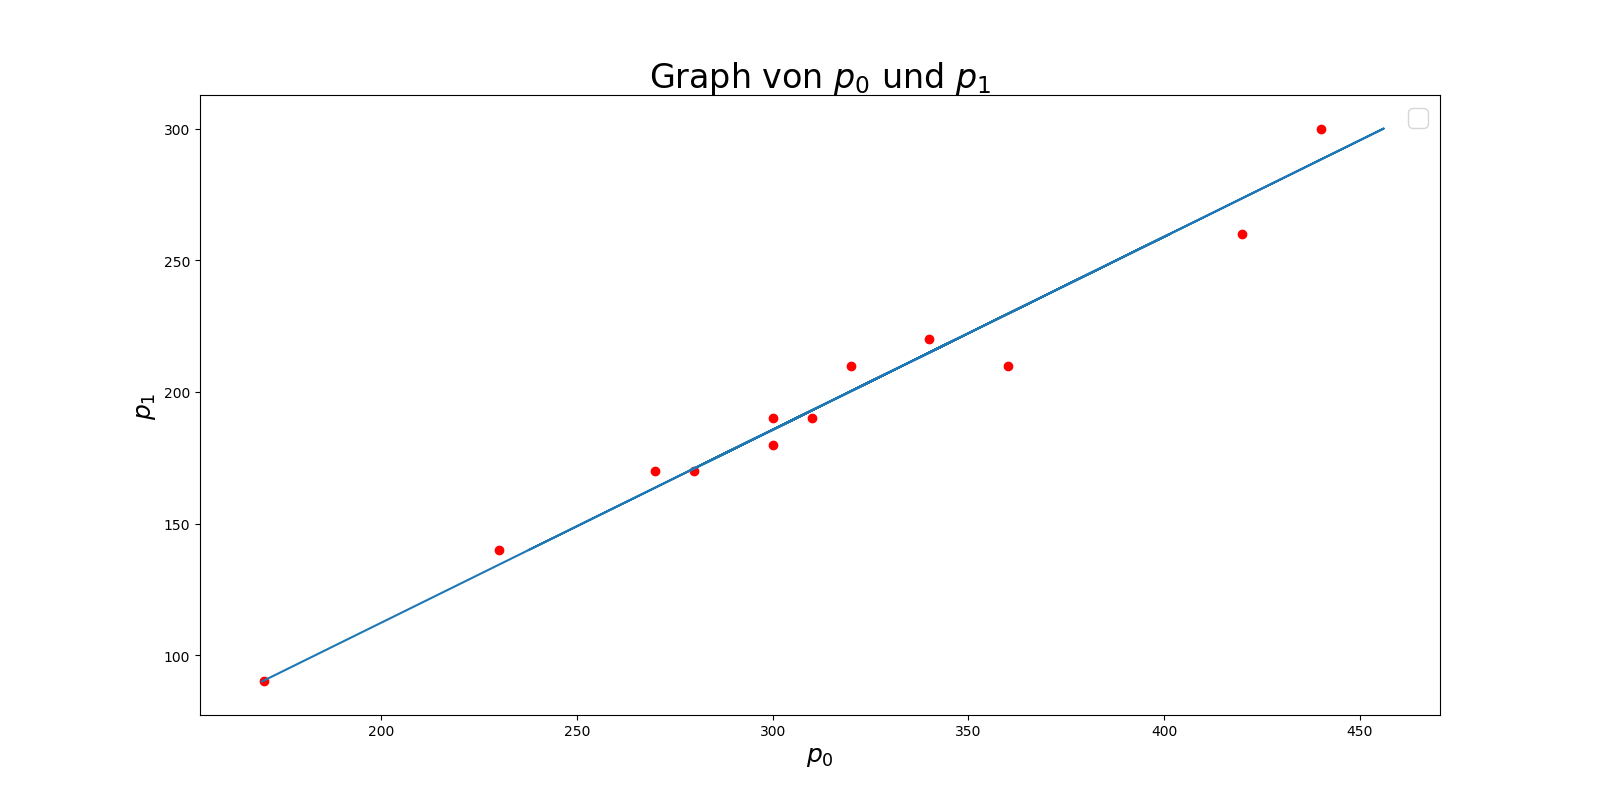
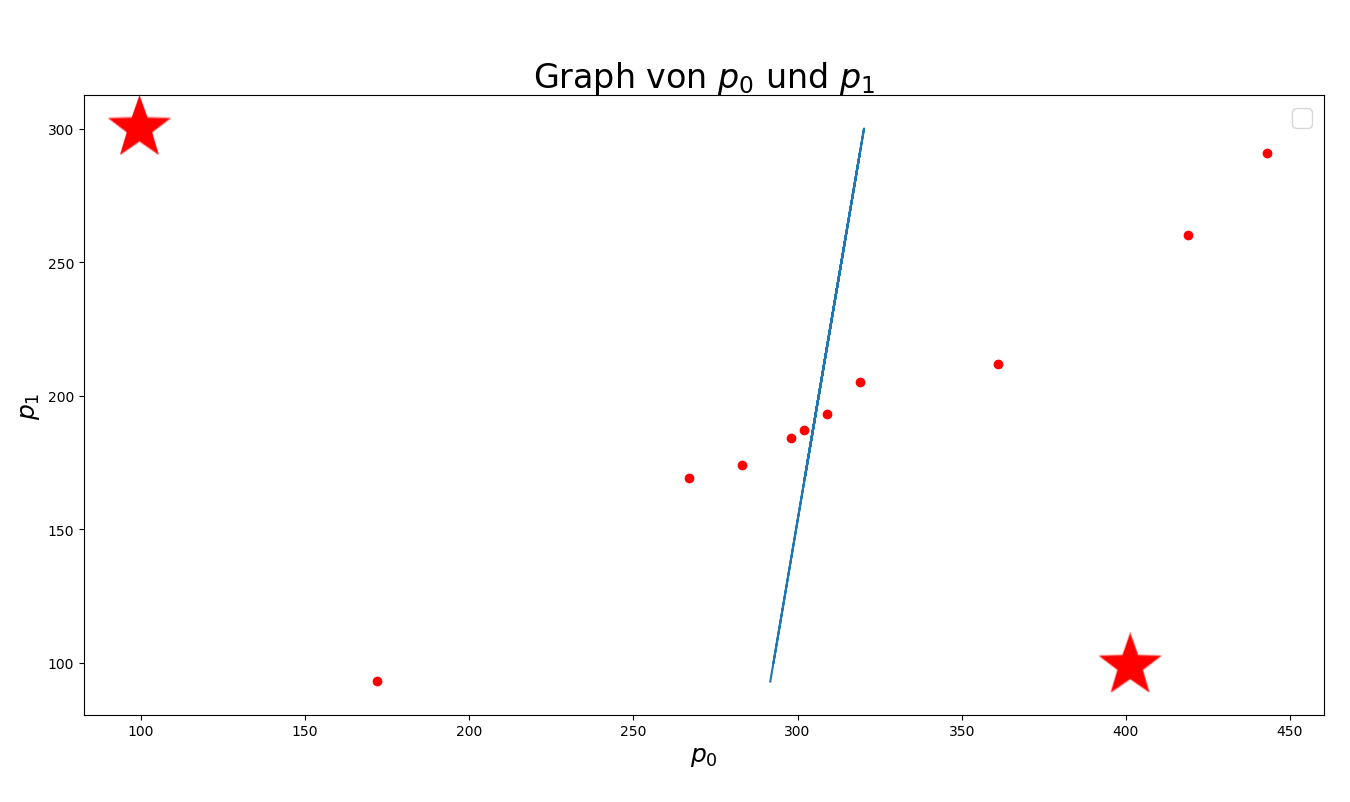
final beamer

diff --git a/the_four_horsemen/presentation.tex b/the_four_horsemen/presentation.tex
@@ -1,9 +1,3 @@
-% Copyright 2019 Clara Eleonore Pavillet
-
-% Author: Clara Eleonore Pavillet
-% Description: This is an unofficial Oxford University Beamer Template I made from scratch. Feel free to use it, modify it, share it.
-% Version: 1.0
-
 \documentclass{beamer}
 \usepackage[utf8]{inputenc}
 
@@ -15,13 +9,18 @@
 
 \newcommand\myeq{\stackrel{\mathclap{\normalfont\mbox{??}}}{=}}
 
-
-\title{Mathematical and Computational Modelling}
-%\titlegraphic{\includegraphics[width=2cm]{Theme/Logos/OxfordLogoV1.png}}
 \author{Christian Parpart, Kei Thoma}
-\date{} %\today
+\title{Lineare Regression}
 
 \begin{document}
+
+\begin{frame}
+    \maketitle
+\end{frame}
+
+\begin{frame}
+    \includegraphics[width=\textwidth]{confluence.jpg}
+\end{frame}
 
 \begin{frame}
     \frametitle{Problemstellung}
@@ -321,7 +320,13 @@
         \item Definiere \(R_1\) als die Matrix, die die ersten \(n \times n\) Einträge von \(R\) enthält.
         \item Löse \(R_1 x = z_1\) durch Rückwärtseinsetzen.
     \end{enumerate}
-    Dann gilt: \(\text{min}||Ax - b||_2 = z_2\).
+    Dann gilt: \(\text{min}||Ax - b||_2 = ||z_2||_2\).
+\end{frame}
+
+\begin{frame}
+    \centering
+    \frametitle{Theorie}
+    \includegraphics[width=\textwidth]{scatter.png}
 \end{frame}
 
 \begin{frame}
@@ -330,21 +335,39 @@
 \end{frame}
 
 \begin{frame}
-\frametitle{Implementierung und Experimente}
-
-Mit den ursprünglichen Daten ...
-
-\includegraphics[width=\textwidth]{plot.png}
-
-Kondition: $A = 74.26$, $A^T A = 5514.75$
-
-Residuum: 32.90 (ohne $p_2$), 32.09 (mit $p_2$)
+    \frametitle{Theorie}
+    \begin{center}
+        \begin{tabular}{ c c c }
+            $p_0$ & $p_1$ & $p_2$ \\
+            \hline
+            172 & 93 & 120 \\
+            309 & 193 & 258 \\
+            302 & 187 & 255 \\
+            283 & 174 & 238 \\
+            443 & 291 & 317 \\
+            298 & 184 & 246 \\
+            319 & 205 & 265 \\
+            419 & 260 & 304 \\
+            361 & 212 & 292 \\
+            267 & 169 & 242 \\
+            337 & 216 & 272 \\
+            230 & 144 & 191
+        \end{tabular}
+    \end{center}    
 \end{frame}
 
 \begin{frame}
-Hier wurde nur die ersten 6 Werte betrachtet ...
+    \frametitle{Theorie}
+    \includegraphics[width=\textwidth]{plot.png}
+    Residuum: 32.90 (ohne \(p_2\)), 32.09 (mit \(p_2\))
 
-\frametitle{Implementierung und Experimente}
+    Kondition: \(A = 74.26\), \(A^T A = 5514.75\)
+\end{frame}
+
+\begin{frame}
+Hier wurde nur die ersten 6 Werte betrachtet.
+
+\frametitle{Experimente}
 \includegraphics[width=\textwidth]{plot1.png}
 
 Kondition: $A = 72.47$, $A^T A = 5252.05$
@@ -353,34 +376,58 @@ Residuum: 1.54 (ohne $p_2$), 1.26 (mit $p_2$)
 \end{frame}
 
 \begin{frame}
-Hier wurden die Werte gerundet ...
+Hier wurden die letzten 2 Werte (von 12) stark verändert.
 
-\frametitle{Implementierung und Experimente}
+\frametitle{Experimente}
 \includegraphics[width=\textwidth]{plot2.png}
 
-Kondition: $A = 55.74$, $A^T A = 3107.40$
+Kondition: $A = 29.76$, $A^T A = 887.15$
 
-Residuum: 42.28 (ohne $p_2$), 39.43 (mit $p_2$)
+Residuum: 324.40 (ohne $p_2$), 211.25 (mit $p_2$)
 \end{frame}
 
 
 \begin{frame}
-\frametitle{Auswertung und Zusammenfassung}
+    \frametitle{Zusammenfassung}
+    
+    \begin{itemize}
+    
+    \item {\color{white}Je weniger Werte desto kleiner das Residuum, aber wahrscheinlich wird das Modell zur Darstellung von physikalischen Phänomene inakkurater.}
+    \item {\color{white}Sollten sich einige Werte sich stark von anderen unterscheiden, sollte man in Betracht ziehen diese Werte zu ignorieren. (Möglicherweise sollte ein Algorithmus benutzt werden, die eine Gewichtung den Werten zuweist.)}
+    \end{itemize}
+    
+\end{frame}
+
+
+\begin{frame}
+\frametitle{Zusammenfassung}
 
 \begin{itemize}
 
-
-\item Je weniger Werte, desto kleiner das Residuum, aber das Ergebnis wird wahrscheinlich recht inakkurat.
-\item Präzisere Inputwerte sind vorzuziehen.
+\item Je weniger Werte desto kleiner das Residuum, aber wahrscheinlich wird das Modell zur Darstellung von physikalischen Phänomene inakkurater. 
+\item {\color{white}Sollten sich einige Werte sich stark von anderen unterscheiden, sollte man in Betracht ziehen diese Werte zu ignorieren. (Möglicherweise sollte ein Algorithmus benutzt werden, die eine Gewichtung den Werten zuweist.)}
 \end{itemize}
 
 \end{frame}
+
+\begin{frame}
+    \frametitle{Zusammenfassung}
+    
+    \begin{itemize}
+    
+    \item Je weniger Werte desto kleiner das Residuum, aber wahrscheinlich wird das Modell zur Darstellung von physikalischen Phänomene inakkurater. 
+    \item Sollten sich einige Werte sich stark von anderen unterscheiden, sollte man in Betracht ziehen diese Werte zu ignorieren. (Möglicherweise sollte ein Algorithmus benutzt werden, die eine Gewichtung den Werten zuweist.)
+    \end{itemize}
+    
+\end{frame}
+
 
 \begin{frame}
 \frametitle{Literatur}
 \begin{enumerate}
 
 \item \textit{Numerische Lineare Algebra}, Prof. Dr. Caren Tischendorf
+\item Titelbild Quelle: \textit{Wikipedia}, https://en.wikipedia.org/wiki/Confluence
 
 \end{enumerate}
 
